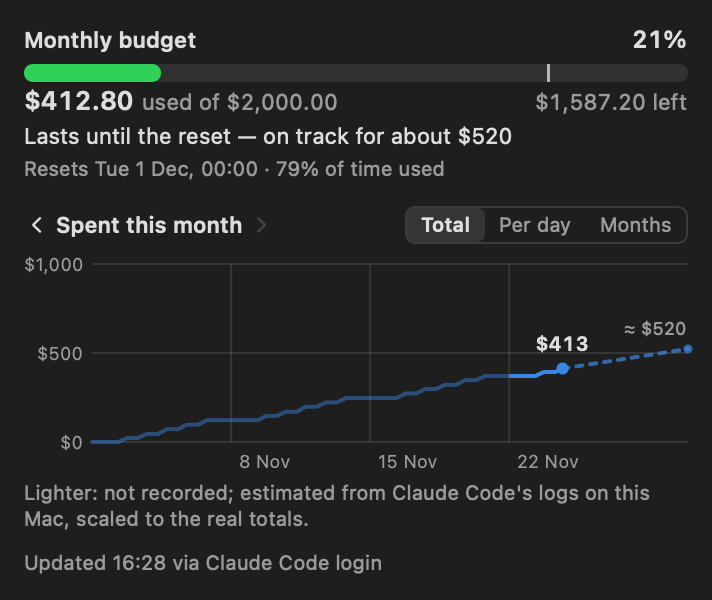
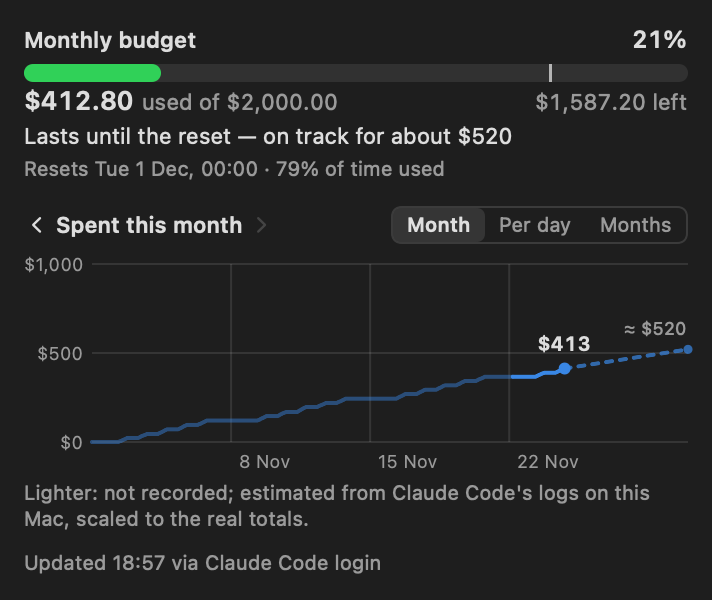
Budget graph: Month instead of Total
The running total is named by its period (Month, or Week for a weekly budget), like the limits graph's Week / Weeks. Total didn't say of what. README, decisions and screenshots updated.

diff --git a/MenuBar/Sources/HistoryChart.swift b/MenuBar/Sources/HistoryChart.swift
@@ -588,7 +588,7 @@ struct BudgetHistoryChart: View {
         let periods = mode == "overview" ? history.periods(of: window) : []
         let what = extra ? "Extra usage" : "Spent"
         let title = mode == "overview" ? (back == 0 ? "Recent \(units)" : "Earlier \(units)")
-            : back > 0 ? Self.periodName(start, end, period: period)   // the switch says Total or Per day
+            : back > 0 ? Self.periodName(start, end, period: period)   // the switch says Month (or Week) or Per day
             : mode == "daily" ? "\(what) per day" : "\(what) this \(unit)"
 
         VStack(alignment: .leading, spacing: 4) {
@@ -599,7 +599,9 @@ struct BudgetHistoryChart: View {
                               back: $stepBack)
                 if mode == "daily" { Text("UTC days").font(.system(size: 10)).foregroundStyle(.secondary) }
                 Spacer()
-                let options = [("total", "Total")] + (perDayAllowed ? [("daily", "Per day")] : [])
+                // The running total is named by its period ("Month", like the limits graph's "Week"):
+                // "Total" didn't say of what, and "This month" would be wrong after stepping back.
+                let options = [("total", unit.capitalized)] + (perDayAllowed ? [("daily", "Per day")] : [])
                     + (overviewAllowed ? [("overview", units.capitalized)] : [])
                 if options.count > 1 {
                     ModeSwitch(mode: Binding(get: { mode }, set: { savedMode = $0; stepBack = 0 }), options: options)

diff --git a/README.md b/README.md
@@ -82,8 +82,9 @@ already keeps on your Mac.
   to add a `$` item next to the 5h/7d one in the menu bar, as `%` or the amount.
 - **History graph** in the popup, a line over time like a temperature curve:
   - on an Enterprise/Team seat, money spent across the budget period, with a dashed
-    projection to the reset (and the budget line once the curve gets near it). Switch to
-    **Per day** for a bar per day, in UTC days like Claude's own usage page.
+    projection to the reset (and the budget line once the curve gets near it): **Month** (or
+    **Week** for a weekly budget). Switch to **Per day** for a bar per day, in UTC days like
+    Claude's own usage page, or **Months** for the totals of recent months.
   - on Pro/Max, the 5h and 7d percentages this week (from the last weekly reset to the next), plus a
     line for a model's own weekly limit (Fable) when the plan has one, with a
     dashed projection of the weekly limit to 100% or to the reset, matching the outlook line

diff --git a/docs/DECISIONS.md b/docs/DECISIONS.md
@@ -63,6 +63,10 @@ options that were ruled out, so they aren't tried again.
 
 ## History and estimates
 
+- **The budget graph's running total is named by its period** (2026-11-24): Month / Per day / Months (Week for
+  a weekly budget), like the limits graph's Week / Weeks. "Total" didn't say of what, and "This month" would be
+  wrong after stepping back to an earlier month with ‹.
+
 - **History is kept without a time limit** (2026-11-19), so past weeks and months can be looked back at.
   Points older than 60 days are thinned to one per window per hour, keeping each hour's highest point so a
   period's peak before its reset survives. About 2 MB a year; it was 40 days before.
